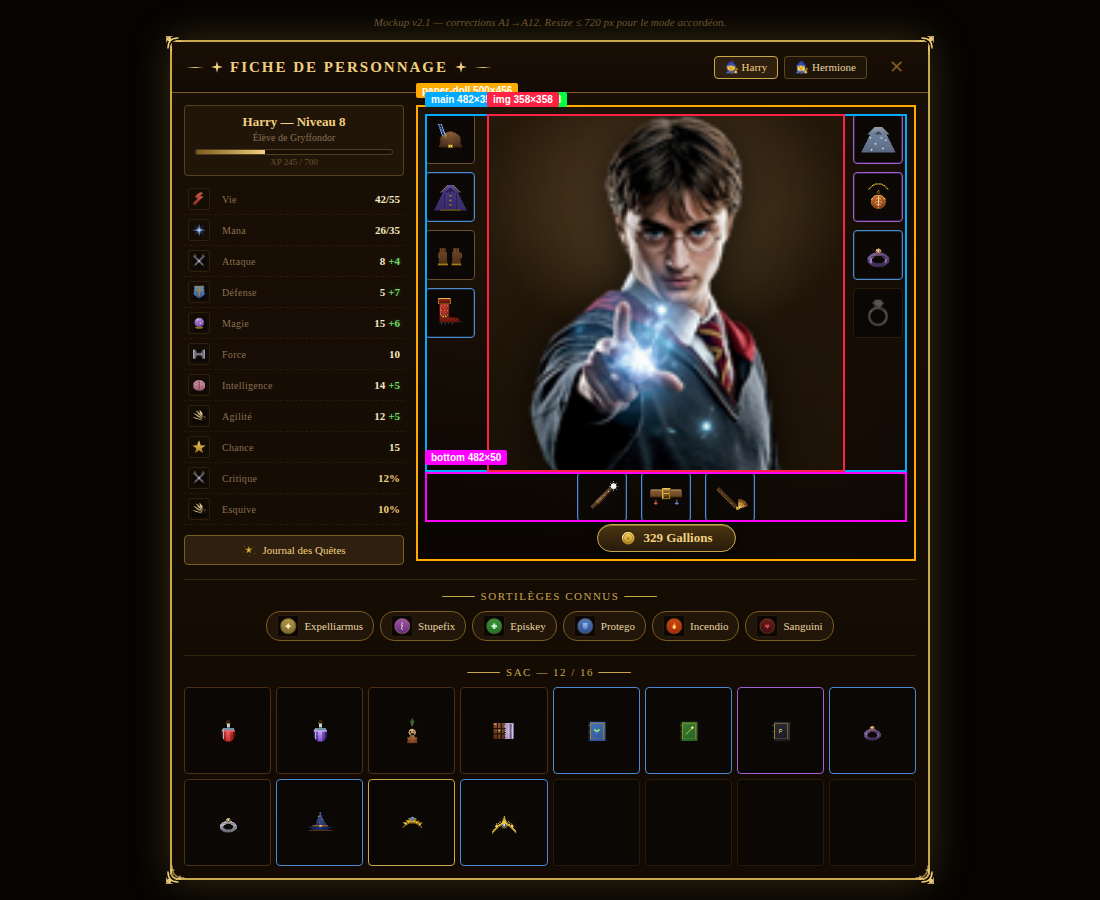
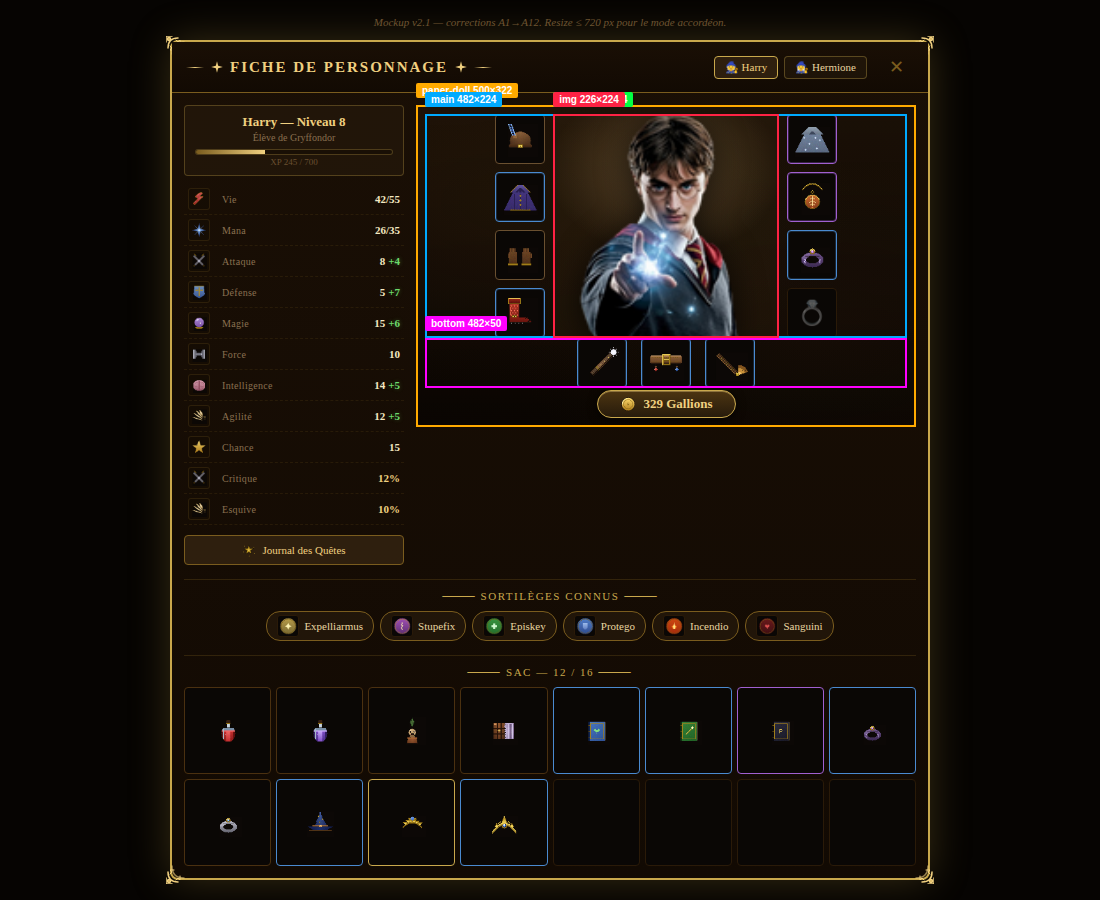
fix(character): mockup v2.15 — boîtes Harry/colonnes contraintes mutuellement
Demande utilisateur explicite : "il doivent être contrain entre eux
pour que ça marche".

Restructure grid pour que les boîtes se contraignent mutuellement :
- grid-template-columns : 50px 1fr 50px → 50px auto 50px
- align-items : start → stretch
- justify-content : center sur paper-doll-main

Chaîne de contraintes :
1. Colonnes latérales : 4 slots × 50px + 3 gaps × 8px = 224 px de haut
2. align-items:stretch → stage prend la même hauteur (224 px)
3. img height:100% + width:auto → 224×224 (ratio carré préservé)
4. grid-template-columns auto → stage = largeur de l'image (224 px)

Résultat : stage et img SUPERPOSÉS parfaitement, plus aucun vide
vertical ni horizontal autour de Harry. Toutes les boîtes (img,
stage, main) ont la même hauteur, dictée par les 4 slots latéraux.

Mesures v2.15 :
- Desktop : img 226×224, stage 226×224 (gain : 366→226 px en largeur
  du stage, plus de vide horizontal de 70 px de chaque côté)
- Mobile  : img 202×200, stage 206×200 (4 px de vide horizontal
  résiduel négligeable)
- Tous les gaps verticaux : 0 px

Visuellement : tête de Harry collée au top, rangée d'armes collée
en bas, slots latéraux à 8 px (gap grid) à gauche/droite.

Changed region(s): [[0.3709, 0.0933, 0.8345, 0.6222]]

diff --git a/tools/mockup_character_v2.html b/tools/mockup_character_v2.html
@@ -210,33 +210,36 @@ body {
 }
 .paper-doll-main{
   display:grid;
-  grid-template-columns: 54px 1fr 54px;
+  grid-template-columns: 50px auto 50px;  /* auto : stage = largeur de l'image */
   gap:8px;
-  align-items:start;
+  align-items:stretch;        /* stage = hauteur des colonnes */
+  justify-content:center;     /* centre l'ensemble dans le paper-doll */
 }
 .paper-doll-col{
   display:flex; flex-direction:column;
   gap:8px;
 }
-/* Stage : ZÉRO hauteur propre, l'image dicte tout via width:100% + height:auto.
-   Pas d'aspect-ratio, pas de min-height : aucune source de vide possible. */
+/* Stage : hauteur = celle des colonnes latérales (via stretch).
+   Image en height:100% + width:auto → l'image s'adapte EN HAUTEUR à
+   la colonne (4×50+3×8 = 224 desktop, 4×44+3×8 = 200 mobile).
+   Aucun vide vertical possible : stage et colonnes sont identiques. */
 .paper-doll-stage{
   position:relative;
-  display:block;
-  font-size:0; line-height:0;
-  /* fond éclairé pour faire ressortir les cheveux noirs de Harry */
+  display:flex;
+  align-items:flex-start;
+  justify-content:center;
+  overflow:hidden;
+  border-radius:4px;
   background:
     radial-gradient(ellipse 80% 60% at 50% 25%, rgba(220,180,120,0.30), transparent 65%),
-    radial-gradient(ellipse at 50% 100%, rgba(40,28,12,0.5), transparent 70%),
     rgba(60,42,20,0.25);
-  border-radius:4px;
-  overflow:hidden;
+  font-size:0; line-height:0;
 }
 .paper-doll-stage .pd-portrait{
   display:block;
-  width:100%;
-  height:auto;
-  filter:drop-shadow(0 8px 22px rgba(0,0,0,0.75));
+  height:100%;               /* contraint par la hauteur des colonnes */
+  width:auto;                /* ratio carré préservé → width = height */
+  filter:drop-shadow(0 6px 16px rgba(0,0,0,0.75));
 }
 .paper-doll-bottom{
   display:flex; align-items:center; justify-content:center;
